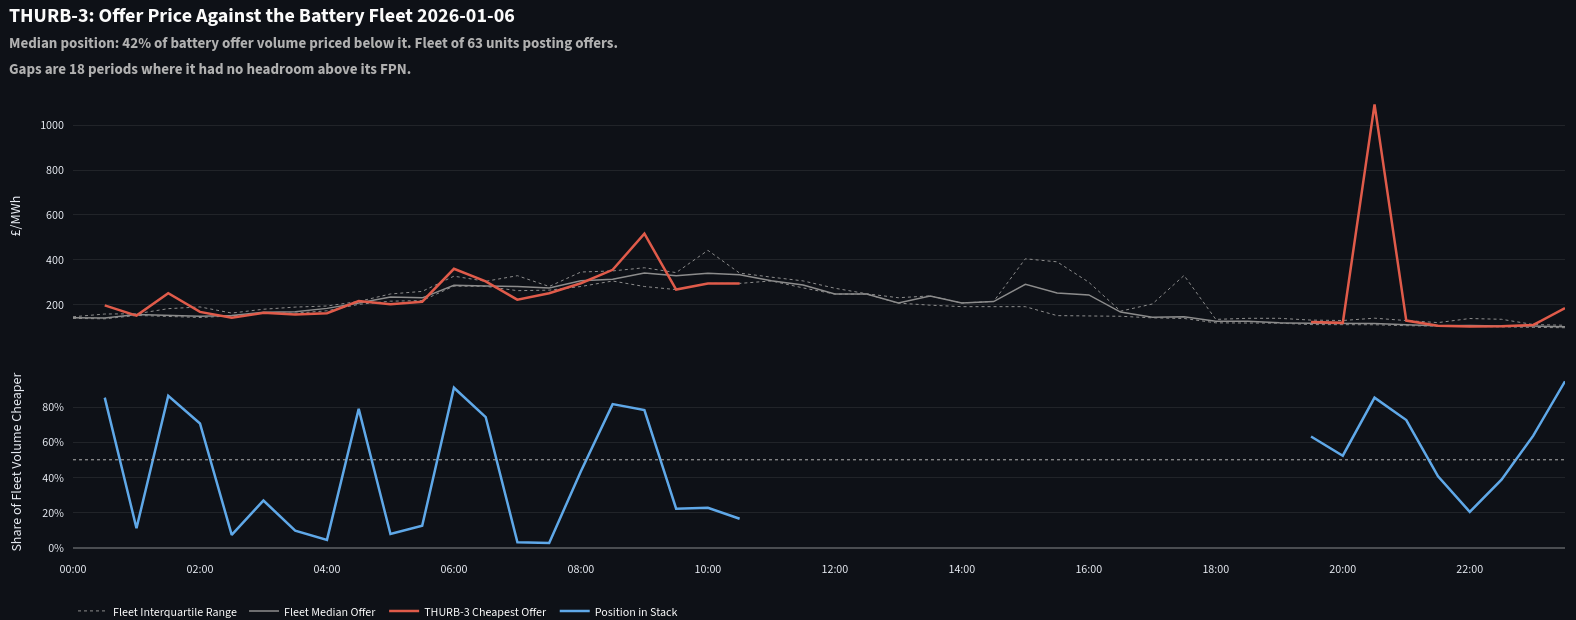
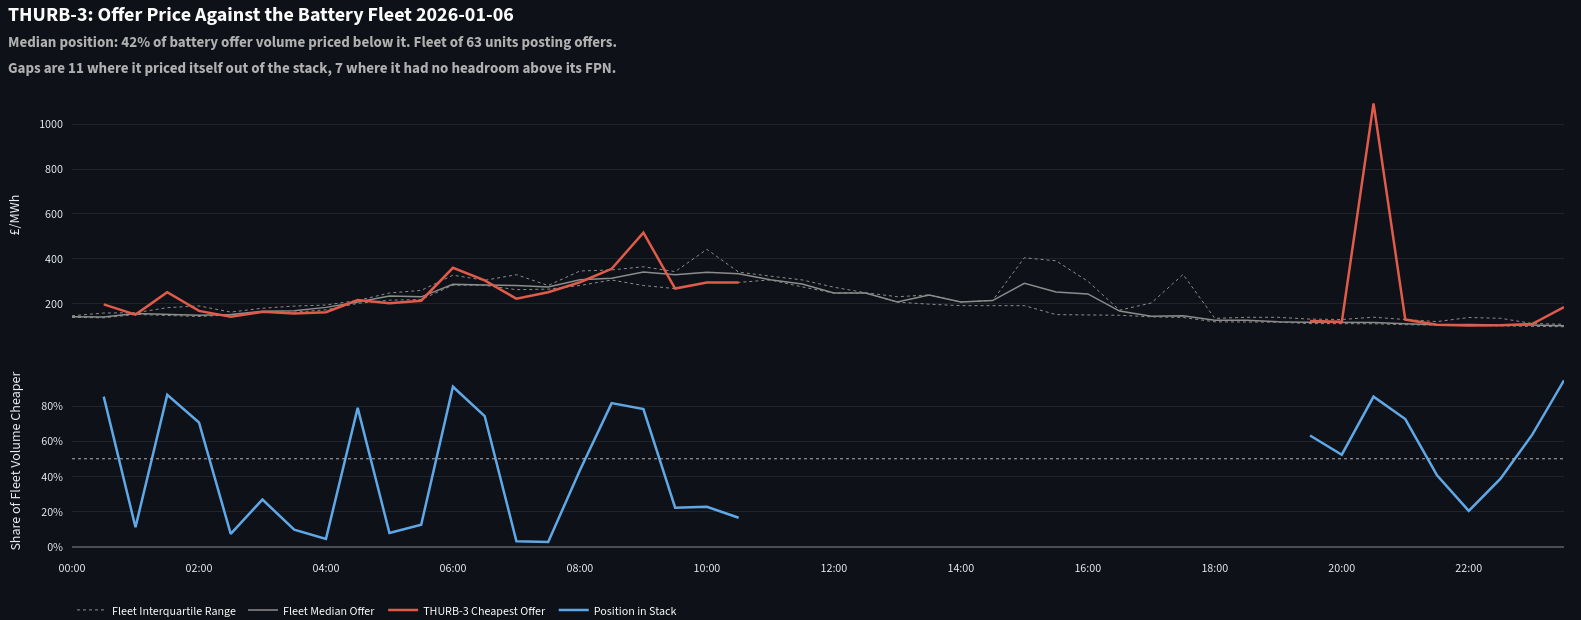
Split the reasons a unit is absent from the offer stack

diff --git a/charts.py b/charts.py
@@ -624,12 +624,11 @@ def depth_chart(
 def offer_percentile(bod, bmu, unit_id, stacks=None):
     stacks = stacks if stacks is not None else all_merit_orders(bod, bmu)
 
-    posted = set(  # periods where the unit submitted anything at all
-        bod.loc[
-            (bod["nationalGridBmUnit"] == unit_id) & (bod["pairId"] > 0),
-            "settlementPeriod",
-        ]
-    )
+    mine_all = bod[(bod["nationalGridBmUnit"] == unit_id) & (bod["pairId"] > 0)]
+    posted = set(mine_all["settlementPeriod"])
+    # cheapest offer before the refusal filter, so a unit that priced itself out
+    # can be told apart from one that had no room to offer
+    raw_cheapest = mine_all.groupby("settlementPeriod")["offer"].min()
 
     rows = []
     for p, o in stacks.items():
@@ -657,8 +656,8 @@ def offer_percentile(bod, bmu, unit_id, stacks=None):
                 "fleet_median": median,
                 "fleet_q75": q75,
                 "n_units": bat["nationalGridBmUnit"].nunique(),
-                # absent means it posted nothing or had no headroom
                 "no_post": p not in posted,
+                "priced_out": raw_cheapest.get(p, float("nan")) >= 2000,
             }
         )
 
@@ -667,7 +666,6 @@ def offer_percentile(bod, bmu, unit_id, stacks=None):
 
 # weighted by band volume so a unit posting five bands is not counted five times
 def _weighted_quantiles(bat, qs):
-
     d = bat.sort_values("offer")
     cum = d["vols"].cumsum() / d["vols"].sum()
     return [d.loc[cum >= q, "offer"].iloc[0] for q in qs]
@@ -757,15 +755,20 @@ def offer_percentile_chart(pct, unit_id, date):
 
     absent = d[d["my_offer"].isna()]
     no_post = int(absent["no_post"].fillna(True).sum())
-    no_room = len(absent) - no_post
+    priced_out = int(
+        (absent["priced_out"].fillna(False) & ~absent["no_post"].fillna(True)).sum()
+    )
+    no_room = len(absent) - no_post - priced_out
 
     bits = []
     if no_post:
-        bits.append(f"{no_post} periods where it posted no offer")
+        bits.append(f"{no_post} where it posted no offer")
+    if priced_out:
+        bits.append(f"{priced_out} where it priced itself out of the stack")
     if no_room:
-        bits.append(f"{no_room} periods where it had no headroom above its FPN")
+        bits.append(f"{no_room} where it had no headroom above its FPN")
     if bits:
-        subtitle += "<br>Gaps are " + " and ".join(bits) + "."
+        subtitle += "<br>Gaps are " + ", ".join(bits) + "."
 
     fig.update_layout(
         title=dict(

diff --git a/README.md b/README.md
@@ -197,11 +197,10 @@ THURB-3 posted a median cheapest offer of £199 against a fleet median of £194,
 so it sat at 42 percent of fleet offer volume across the day. It priced within
 consensus rather than taking a distinct view.
 
-The lines break for eighteen periods, from 10:30 to 19:30. THURB-3 posted
-bid-offer data in all of them and had no headroom above its FPN in any of them,
-so every band was capped out by the MEL test and the unit drops out of the stack.
-Read with the MEL profile above, that is a unit unavailable to the energy market
-rather than one pricing itself out.
+The lines break for eighteen periods. THURB-3 posted bid-offer data in every one of 
+them. In eleven it had headroom and priced itself out, offering above £2,000 so the 
+band never reaches the stack. In the other seven it was pinned at its declared MEL, 
+with every band capped out by the headroom test.
 
 ### Battery Fleet Declared Availability
 
